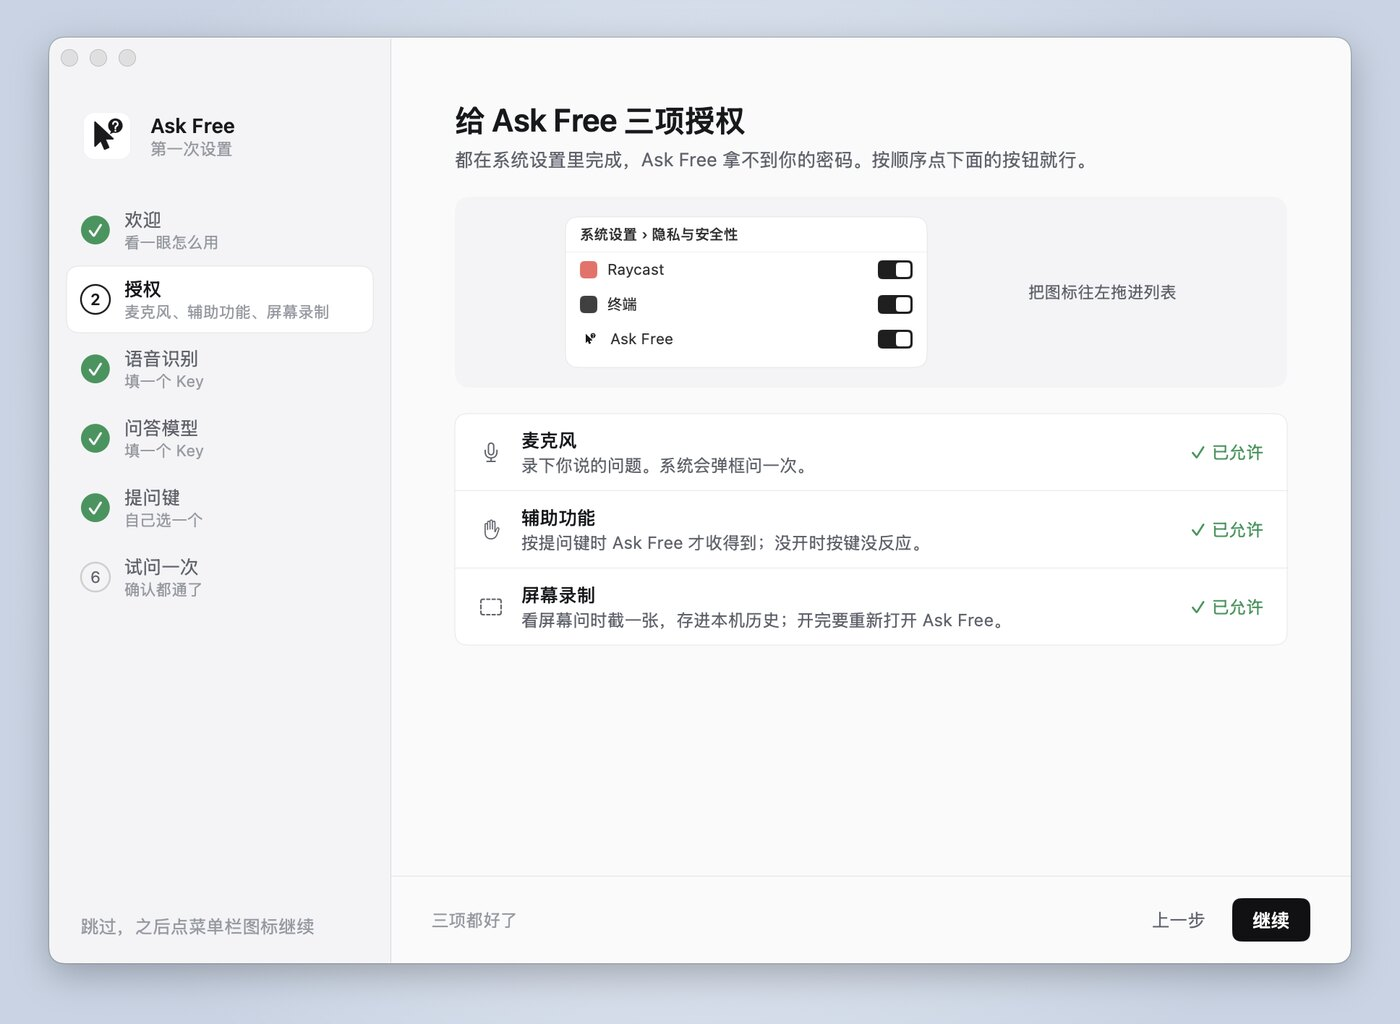
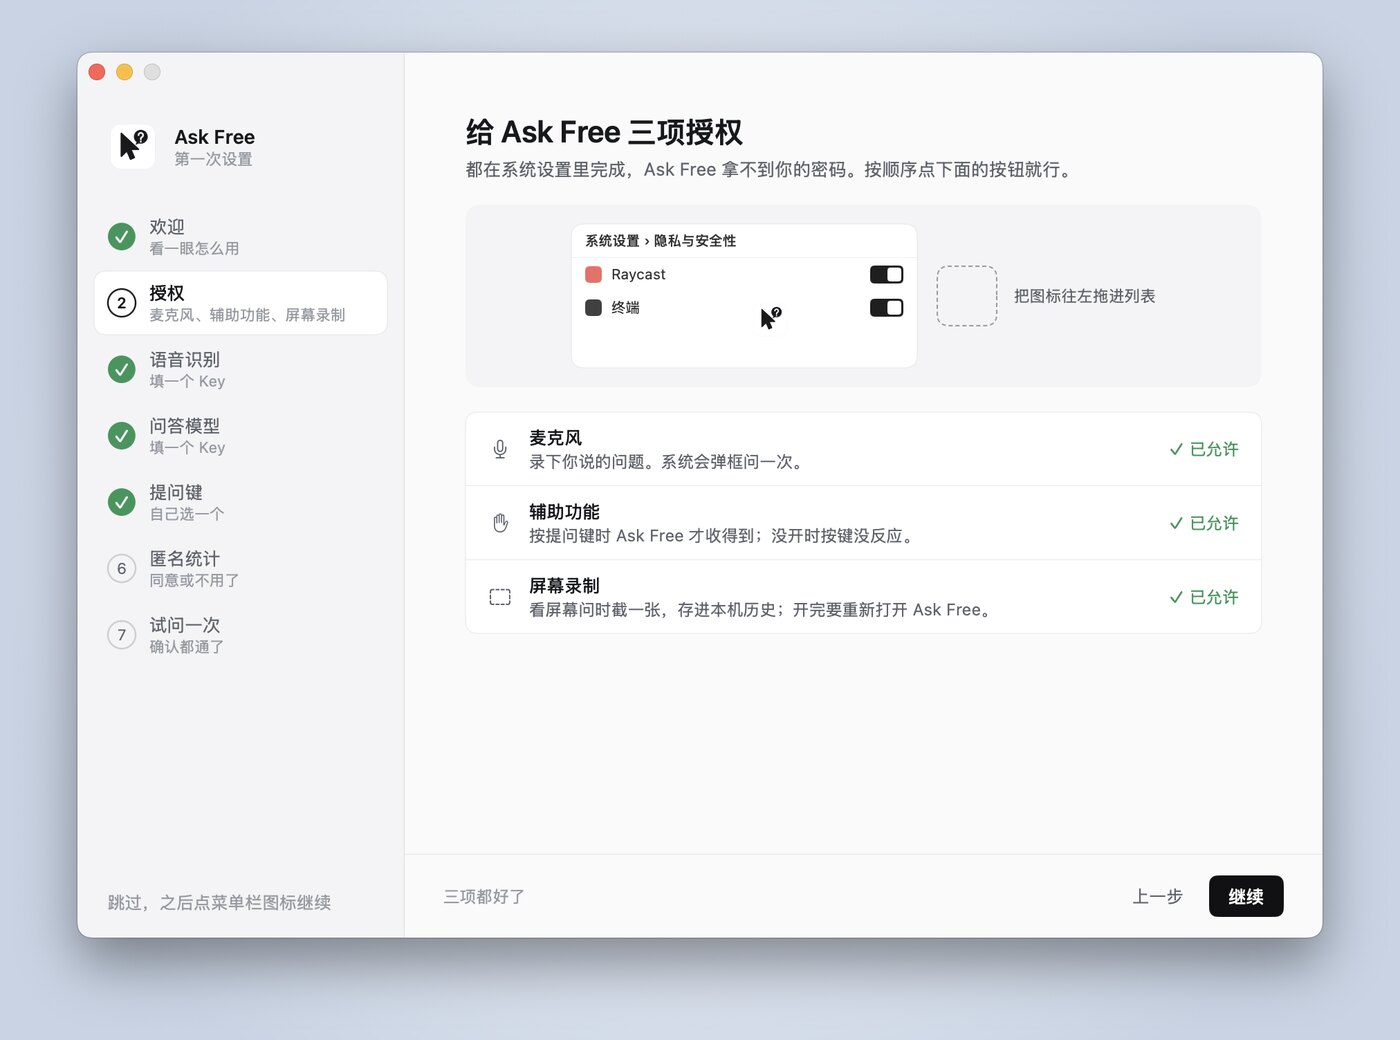
docs: README 中英两份写实：Apple 芯片和 Intel 通用、dmg 安装和固定下载链接、1.2.0 起自动更新、匿名统计写明原因且同意才发；放上动图和真机截图，欢迎引导截图重拍成七步 (task-9t16s)

diff --git a/README.md b/README.md
@@ -4,7 +4,7 @@
 
 <p align="center"><b>Press a key, ask out loud, and AI answers looking at your screen.</b></p>
 
-<p align="center"><a href="https://github.com/SchaeferAnjon/askfree/releases/latest"><b>Download for Mac (Apple silicon)</b></a></p>
+<p align="center"><a href="https://github.com/SchaeferAnjon/askfree/releases/latest/download/AskFree.dmg"><b>Download for Mac (Apple silicon and Intel)</b></a></p>
 
 <p align="center"><a href="https://askfree.us-cloud.uk/"><img src="docs/readme/en/website.svg" width="274" height="36" alt="Website (in Chinese): askfree.us-cloud.uk"></a></p>
 
@@ -12,14 +12,12 @@
 <a href="https://github.com/SchaeferAnjon/askfree/releases/latest"><img src="https://img.shields.io/github/v/release/SchaeferAnjon/askfree?label=latest&color=111113" alt="Latest release"></a>
 <a href="LICENSE"><img src="https://img.shields.io/badge/license-GPL--3.0-111113" alt="GPL-3.0"></a>
 <img src="https://img.shields.io/badge/macOS-14%2B-111113" alt="macOS 14+">
-<img src="https://img.shields.io/badge/chip-Apple%20silicon-111113" alt="Apple silicon">
+<img src="https://img.shields.io/badge/chip-Apple%20silicon%20%2B%20Intel-111113" alt="Apple silicon and Intel">
 </p>
 
 <p align="center"><sub><b>English</b> · <a href="README.zh-CN.md">简体中文</a></sub></p>
 
-<!-- Hero animation (README item 30) goes here, an 840 px wide WebP, for example:
-<p align="center"><img src="docs/readme/en/ask.webp" width="840" alt="Point at something on screen, hold the key and ask; the answer card in the top right corner answers"></p>
--->
+<p align="center"><img src="docs/readme/en/ask.webp" width="840" alt="Pointing at an error in Terminal, holding Right Option and asking what it means; the answer card in the top right gives the command to run"></p>
 
 > [!NOTE]
 > The app's interface is in Chinese only. Speech recognition and the answer models are services based in mainland China: Volcano Engine (ByteDance) turns your voice into text, and DeepSeek or Alibaba Cloud Bailian (Qwen) answers. You need your own API keys from them, and you pay them directly. The website and its setup guide are in Chinese too.
@@ -41,16 +39,14 @@ You are reading a web page, a paper or some code and hit something you don't get
 
 - **Speaking**: according to Volcano Engine's [speech recognition docs](https://www.volcengine.com/docs/6561/1354868) (in Chinese), when no language is set (Ask Free sets none) it recognizes Mandarin Chinese and English, plus Cantonese, Shanghainese, Hokkien (Minnan), Sichuanese and Shaanxi dialect. Japanese, Korean and other languages need the language set in the request, which Ask Free does not do yet. The docs say nothing specific about mixing Chinese and English in one sentence. This is what the docs say (checked October 27, 2026); not tested.
 - **Typing**: skips speech recognition, so any language DeepSeek or Qwen can read works.
-- **Answers** come in the language you ask in: ask in English and it answers in English.
+- **Answers** come in the language you ask in: ask in English and it answers in English. Since 1.2.0, when a question is not in Chinese, the prompt ends by naming the language to answer in (tested on October 28, 2026 with 5 English questions to DeepSeek: all 5 answered in English).
 - The interface is Chinese only.
 
 </details>
 
 ## How to use it
 
-<!-- Feature animation (README item 30) goes here, for example follow-ups and web search:
-<p align="center"><img src="docs/readme/en/followup.webp" width="840" alt="Press the key again while the answer is showing to ask a follow-up; follow-ups are numbered"></p>
--->
+<p align="center"><img src="docs/readme/en/followup.webp" width="840" alt="Asking which mountain a photo shows, then pressing the key again while the answer is showing to ask how to get there; the follow-up is numbered below the first question"></p>
 
 No shortcut is set until you pick one, since every keyboard is different: the welcome guide asks you to choose one the first time (right Option, right Command, fn, Control, or record your own), and you can change it later on the **快捷键** (Shortcuts) page of the main window.
 
@@ -69,23 +65,24 @@ The answer appears in a panel in the top right corner:
 
 **History**: the **历史** (History) page of the main window, or **历史记录** in the menu bar, lists your topics by day. Open one to see each question, answer and the screenshot sent with it; search, copy, delete with a right click, or clear everything.
 
-<!-- Real screenshots (README item 31) go here, like the "Real screenshots" table in the MeetCaption README:
 ## Real screenshots
 
 <table>
 <tr>
-<td colspan="2" align="center"><img src="docs/readme/shots/answer.jpg" width="800" alt="An answer about the screen, with a red box at the pointer"><br><sub>Answering about the screen</sub></td>
+<td colspan="2" align="center"><picture><source media="(prefers-color-scheme: dark)" srcset="docs/readme/en/answer-dark.jpg"><img src="docs/readme/en/answer-light.jpg" width="800" alt="Asking about the screen: pointing at an error in Terminal; the answer card in the top right explains the cause and the fix, and the thumbnail next to the question is the screenshot sent to the AI"></picture><br><sub>Answering about the screen</sub></td>
 </tr>
 <tr>
-<td align="center"><img src="docs/readme/shots/followup.jpg" width="380" alt="Numbered follow-ups"><br><sub>Follow-ups</sub></td>
-<td align="center"><picture><source media="(prefers-color-scheme: dark)" srcset="docs/readme/shots/history-dark.jpg"><img src="docs/readme/shots/history-light.jpg" width="420" alt="The History page of the main window"></picture><br><sub>History</sub></td>
+<td align="center"><picture><source media="(prefers-color-scheme: dark)" srcset="docs/readme/en/followup-dark.jpg"><img src="docs/readme/en/followup-light.jpg" width="340" alt="A follow-up: the first question folds into two lines, the second is numbered below it"></picture><br><sub>Follow-ups</sub></td>
+<td align="center"><picture><source media="(prefers-color-scheme: dark)" srcset="docs/readme/en/history-dark.jpg"><img src="docs/readme/en/history-light.jpg" width="460" alt="History: four topics listed by day; on the right, the two screenshots sent to the AI with a red box where the pointer was, the answer and the follow-up"></picture><br><sub>History</sub></td>
+</tr>
+<tr>
+<td colspan="2" align="center"><picture><source media="(prefers-color-scheme: dark)" srcset="docs/readme/en/home-dark.jpg"><img src="docs/readme/en/home-light.jpg" width="800" alt="Home page of the main window: the three ways to ask with their keys, what you can say while speaking, and recent questions"></picture><br><sub>Home page of the main window</sub></td>
 </tr>
 </table>
--->
 
 ## What you need
 
-1. A Mac with Apple silicon, macOS 14 or later.
+1. A Mac with Apple silicon or an Intel chip, macOS 14 or later.
 2. Two API keys, entered in the welcome guide or on the **语音与模型** (Voice and models) page. The [setup guide](https://askfree.us-cloud.uk/#page=setup) on the website (in Chinese) shows where to get them, step by step.
    - **Speech recognition**: Volcano Engine (Doubao) audio file recognition, [console](https://console.volcengine.com/speech/app). Each recognition version comes with 20 free hours, valid for six months.
    - **Answers**: DeepSeek (fastest, searches the web when needed, [console](https://platform.deepseek.com/api_keys)) or Qwen on Alibaba Cloud Bailian (built-in web search, [console](https://bailian.console.aliyun.com/), 1 million free tokens per model, valid for 90 days after you sign up).
@@ -113,17 +110,20 @@ In total, one question about the screen costs CNY 0.01 to 0.025, more than half 
 
 | | Download | Needs |
 |---|---|---|
-| **Mac with Apple silicon** (M1 or later) | `AskFree-<version>.zip` on the [releases page](https://github.com/SchaeferAnjon/askfree/releases/latest) | macOS 14 or later |
+| **Mac** (one universal app for Apple silicon and Intel) | [AskFree.dmg](https://github.com/SchaeferAnjon/askfree/releases/latest/download/AskFree.dmg) (latest version) | macOS 14 or later |
 
-Macs with an Intel chip are not supported. Unzip the download, drag `Ask Free.app` into **Applications** and open it from there; opened straight from **Downloads**, macOS runs it from a temporary read-only location.
+Open the downloaded `AskFree.dmg`, drag **Ask Free** onto the **Applications** folder next to it, and open it from **Applications**. Don't open it straight from the dmg window or from **Downloads**: macOS would run it from a temporary read-only location and forget the permissions you gave it.
 
-Earlier versions are on the [releases page](https://github.com/SchaeferAnjon/askfree/releases) too. Ask Free does not update itself yet; new versions are published on the same page.
+**Updates**: from 1.2.0 on, Ask Free checks GitHub for a new version every 6 hours, downloads it in the background and verifies its signature, then offers **重启更新** (Restart to update) in the menu bar and under **通用 → 更新** (General → Updates) in the main window; if you don't click it, the update installs the next time you quit. You can turn this off under **通用 → 更新**. Version 1.1.0 and earlier can't update themselves: download 1.2.0 once by hand. Earlier versions and the notes for each release are on the [releases page](https://github.com/SchaeferAnjon/askfree/releases).
 
 <details>
 <summary>The first time you open it</summary>
 
-- **macOS says the developer cannot be verified**: this version has a Developer ID signature but is not notarized by Apple yet. Open **System Settings**, go to **Privacy & Security**, scroll to the bottom and click **Open Anyway**.
-- **The welcome guide** has six steps: welcome, permissions, speech recognition, answer model, shortcut, and finally one real question to check everything works. It takes about 3 minutes.
+- **macOS says the developer cannot be verified**: Ask Free has a Developer ID signature but is not notarized by Apple. Open **System Settings**, go to **Privacy & Security**, scroll to the bottom and click **Open Anyway**.
+- **The welcome guide** has seven steps: welcome, permissions, speech recognition, answer model, shortcut, anonymous usage statistics (agree or not), and finally one real question to check everything works. It takes about 3 minutes.
+
+<p align="center"><img src="docs/readme/shots/onboarding-welcome.jpg" width="420" alt="Welcome guide, step 1: seven steps, permissions first, then keys, then the shortcut"> <img src="docs/readme/shots/onboarding-permissions.jpg" width="420" alt="Welcome guide, step 2: microphone, Accessibility and Screen Recording all allowed, with the drag-the-icon illustration above"></p>
+
 - **Permissions**: for the microphone, click **Allow** in the system prompt. For Accessibility and Screen Recording, click **打开系统设置** (Open System Settings): an Ask Free icon floats next to System Settings; drag it to the left into the list and the switch turns on. After Screen Recording, macOS asks you to quit and reopen Ask Free; the guide comes back to the same step.
 - **Upgrading from 1.0.1**: macOS may ask for Accessibility and Screen Recording again. On the **权限** (Permissions) page of the main window, click **打开系统设置** and drag the icon into the list.
 
@@ -131,13 +131,17 @@ Earlier versions are on the [releases page](https://github.com/SchaeferAnjon/ask
 
 ## Privacy
 
-- No account, no sign-up, and no server of ours: Ask Free talks only to the providers you choose.
+- No account, no sign-up. Your questions, recordings and screenshots go straight to the providers you choose, never through us.
 - Your voice goes straight to Volcano Engine to be turned into text. Recordings are not kept.
 - Your question and the screenshots go to the answer model you chose, DeepSeek or Alibaba Cloud Bailian.
 - The screen is captured only at the moment you press the key (or double-tap the typing key): a scaled-down image of the whole screen and a sharp one of the window under the pointer. The "just ask" key captures nothing, and nothing is captured with **让 AI 看屏幕** (Let AI see the screen) turned off on the **回答方式** (Answers) page.
 - Web searches go to the same provider: DeepSeek's search API, or Qwen's built-in web search.
 - **联网的回答附上图** (Pictures with web answers) is on by default: when the answer needs pictures, one image search term (or your question, if there is no term) goes to DuckDuckGo, never the screenshots or the recording. Turn it off on the **回答方式** (Answers) page.
+- Update checks: every 6 hours Ask Free fetches the latest version info from GitHub and downloads the new version if there is one; none of your questions, recordings, screenshots or keys go with it. Turn it off under **通用 → 更新** (General → Updates).
+- Anonymous usage statistics: we will give the first 100 users free credit, so we need to count how many people use Ask Free. The count is anonymous. Ask Free asks you the first time you open it and **sends only if you agree**: once a day, to our server (api.us-cloud.uk), a random ID created when you install (unrelated to your name, email or hardware), the version, the system and chip type, whether you use a membership or your own keys, and the interface language. Never your questions, answers, recordings, screenshots or keys. Change it any time under **通用 → 匿名使用统计** (General → Anonymous usage statistics).
 - Keys are stored in the macOS Keychain. History and screenshots stay on your Mac in `~/.config/askfree/`, readable only by your user account: text in `history.jsonl`, the screenshots sent to the model and thumbnails of found images in `history-images/`. Delete single entries or everything on the **历史** (History) page.
+
+The full [privacy policy](https://askfree.us-cloud.uk/#page=privacy) is on the website (in Chinese).
 
 ## Build from source
 
@@ -168,6 +172,6 @@ scripts/        Install and development scripts
 
 ## Credits and license
 
-Ask Free is built from the "Ask AI" feature of [Typefree](https://github.com/kdsz001/typefree) by kdsz001, with dictation, polishing, the word list, membership and auto-update removed, keeping only spoken questions.
+Ask Free is built from the "Ask AI" feature of [Typefree](https://github.com/kdsz001/typefree) by kdsz001, with dictation, polishing, the word list and membership removed, keeping only spoken questions; updates are done separately with [Sparkle](https://sparkle-project.org).
 
 Released under [GPL-3.0](LICENSE), the same as upstream.
